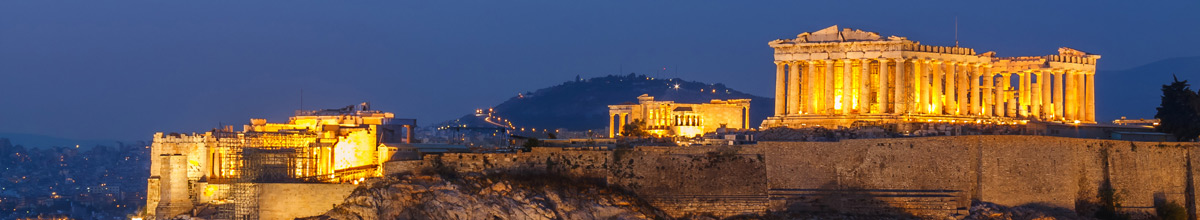
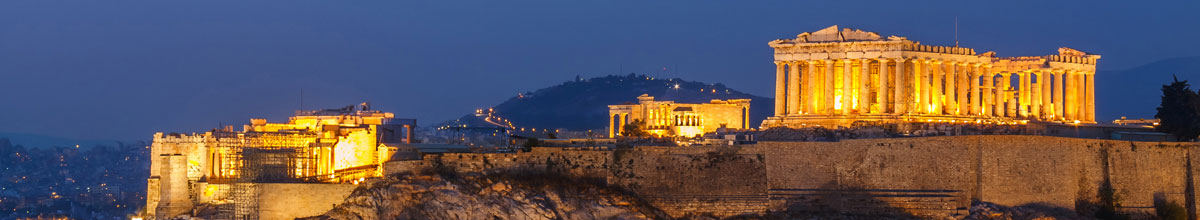
priority to background loading

Changed region(s): [[0.2775, 0.6273, 0.3083, 0.6545]]

diff --git a/public_html/title.php b/public_html/title.php
@@ -20,15 +20,15 @@
         </div>-->
         
         <div class="item active">
-          <img src="images/Slideshow/highQ/ulis_imel.jpg" alt="INN NCSR Demokritos e-beam lithography room">
+          <img src="images/Slideshow/ulis_imel_comp.jpg" alt="INN NCSR Demokritos e-beam lithography room">
         </div>
         
         <div class="item">
-          <img src="images/Slideshow/highQ/ulis_wafer.jpg" alt="Chips on Si wafer">
+          <img src="images/Slideshow/ulis_wafer_comp.jpg" alt="Chips on Si wafer">
         </div>
         
         <div class="item">
-          <img src="images/Slideshow/highQ/ulis_athens.jpg" alt="Athens Acropolis view">
+          <img src="images/Slideshow/ulis_athens_comp.jpg" alt="Athens Acropolis view">
         </div>
           
 

diff --git a/public_html/header.php b/public_html/header.php
@@ -1,6 +1,7 @@
 <title>EUROSOI - ULIS 2017</title>
 <meta charset="utf-8">
 <meta name="viewport" content="width=device-width, initial-scale=1">
+<link rel="preload" as="image" href="images/subPageHeaderBG-alter2.png">
 <link rel="icon" type="image/png" href="images/favicon.ico">
 <link rel="stylesheet" href="http://maxcdn.bootstrapcdn.com/bootstrap/3.3.6/css/bootstrap.min.css">
 <link rel="stylesheet" href="css/style2.css" >
